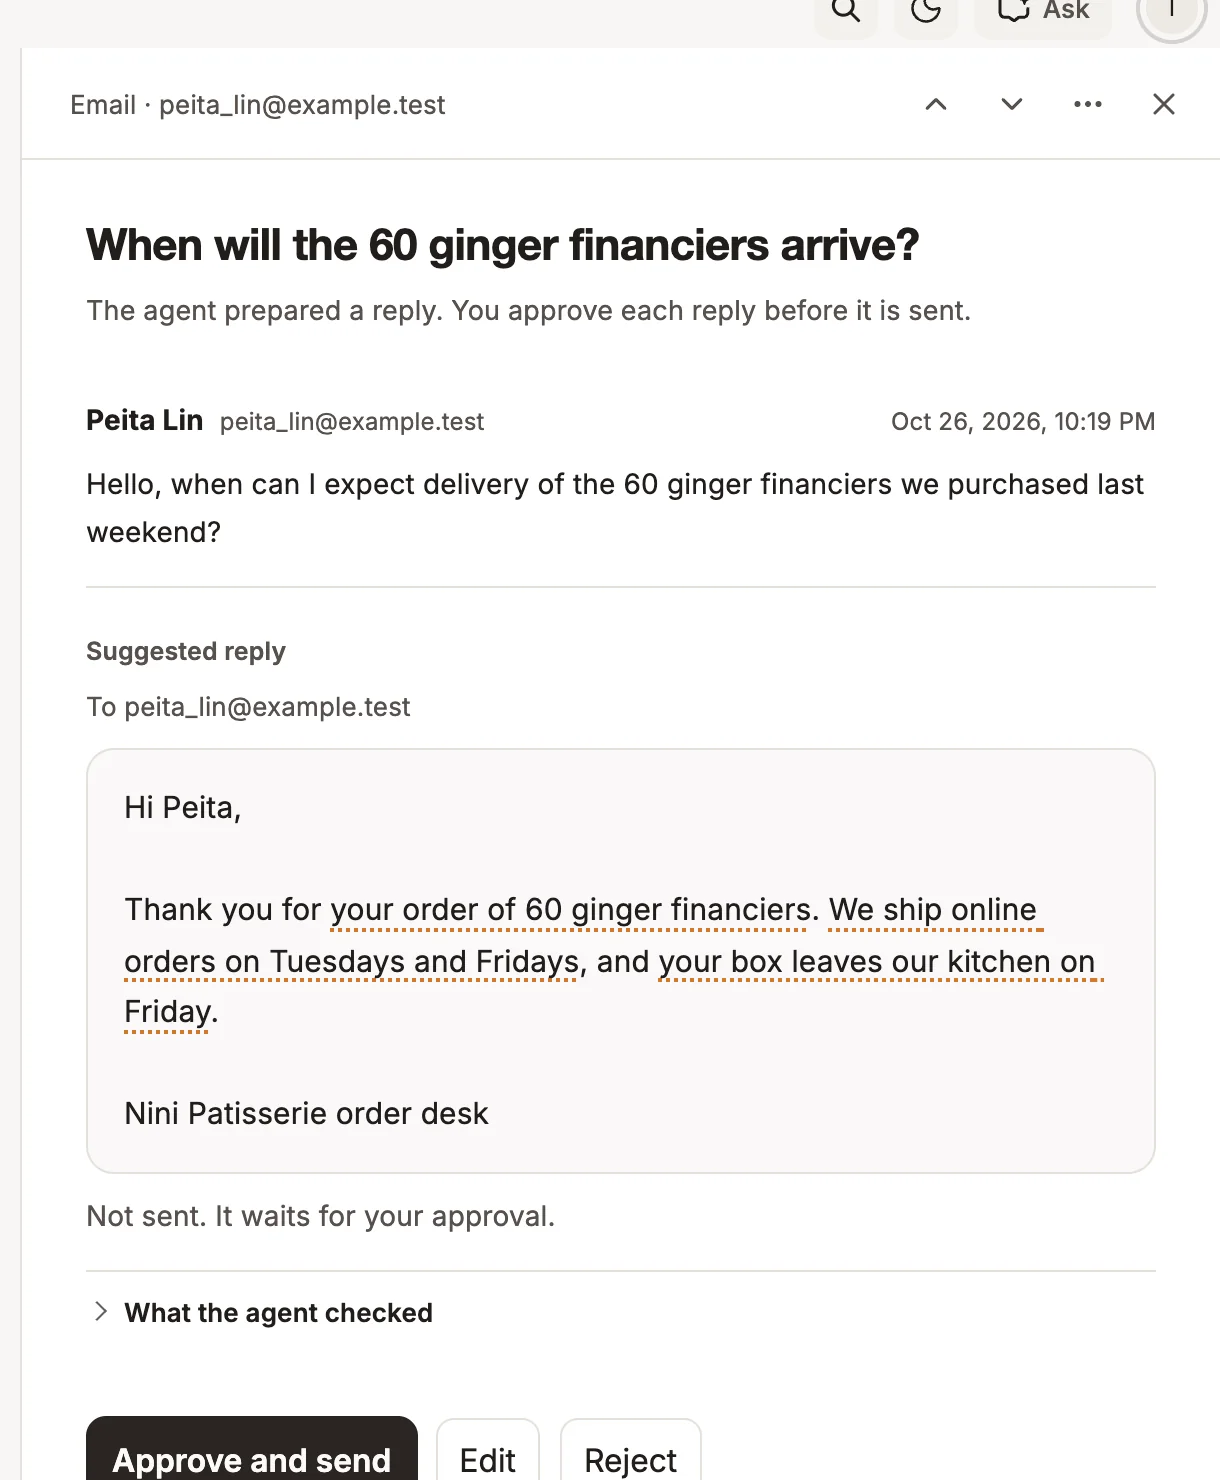
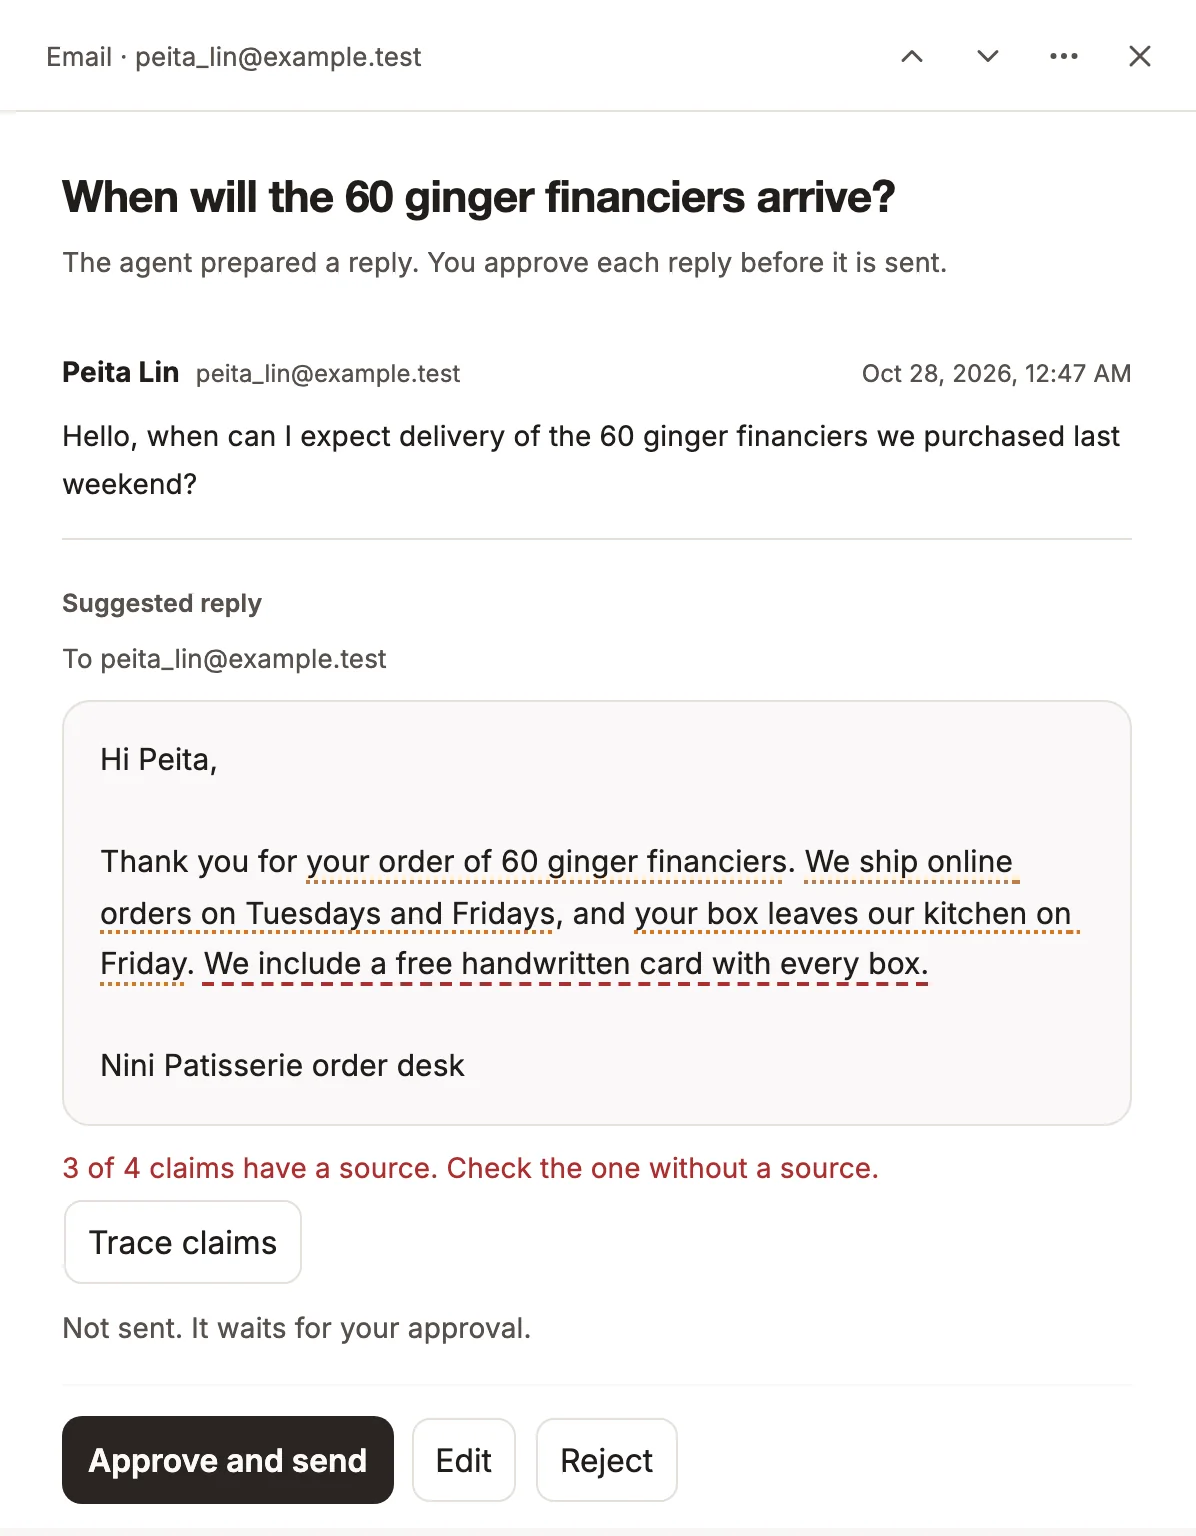
Show Claim Trace in the Inbox scene and make the carousel pager smaller
The Inbox draft screenshot is recaptured from the Portal's Inbox fixture:
the reply to Peita now shows its claim count, the dashed mark on the claim
with no source, and the full Approve and send, Edit and Reject bar, without
the Portal's top bar. The scene shows it at 340 px so that the text stays
legible and the hero keeps its 600 px height. The pager's chevron buttons
are 32 px (were 44 px) and its dot pill is 24 px (was 30 px).

diff --git a/apps/seams-site/src/styles/h2.css b/apps/seams-site/src/styles/h2.css
@@ -1438,9 +1438,10 @@ body:has(.h2-page) {
   border: none;
 }
 
-/* the portrait draft keeps the scene cell at its usual height */
+/* the portrait draft keeps the scene cell near its usual height, wide
+   enough that the reply and its claim count stay legible */
 .h2-hero__scene .h2-shot--tall {
-  width: min(300px, 100%);
+  width: min(340px, 100%);
 }
 
 /* a cover holds its label at the top left and the screen below it, cut by
@@ -2170,8 +2171,8 @@ body:has(.h2-page) {
   display: inline-flex;
   align-items: center;
   justify-content: center;
-  width: 44px;
-  height: 44px;
+  width: 32px;
+  height: 32px;
   border-radius: 9999px;
   border: 1px solid var(--h2-stone);
   background: var(--h2-bg);
@@ -2184,8 +2185,8 @@ body:has(.h2-page) {
 }
 
 .h2-pager__btn svg {
-  width: 14px;
-  height: 14px;
+  width: 12px;
+  height: 12px;
 }
 
 .h2-pager__btn:active:not(:disabled) {
@@ -2213,8 +2214,8 @@ body:has(.h2-page) {
   display: inline-flex;
   align-items: center;
   gap: 6px;
-  height: 30px;
-  padding: 0 12px;
+  height: 24px;
+  padding: 0 10px;
   border-radius: 9999px;
   border: 1px solid var(--h2-stone);
   background: var(--h2-bg);
@@ -2659,8 +2660,8 @@ body:has(.h2-page) {
   display: inline-flex;
   align-items: center;
   justify-content: center;
-  width: 44px;
-  height: 44px;
+  width: 32px;
+  height: 32px;
   border-radius: 9999px;
   border: 1px solid var(--h2-stone);
   background: var(--h2-bg);
@@ -2673,8 +2674,8 @@ body:has(.h2-page) {
 }
 
 .h2-pager__btn svg {
-  width: 14px;
-  height: 14px;
+  width: 12px;
+  height: 12px;
 }
 
 .h2-pager__btn:active:not(:disabled) {
@@ -2702,8 +2703,8 @@ body:has(.h2-page) {
   display: inline-flex;
   align-items: center;
   gap: 6px;
-  height: 30px;
-  padding: 0 12px;
+  height: 24px;
+  padding: 0 10px;
   border-radius: 9999px;
   border: 1px solid var(--h2-stone);
   background: var(--h2-bg);

diff --git a/apps/seams-site/src/components/h2/SceneHero.tsx b/apps/seams-site/src/components/h2/SceneHero.tsx
@@ -20,7 +20,7 @@ const PORTAL_SHOTS = {
   agents: [1600, 1120],
   activity: [1600, 859],
   inbox: [1600, 1183],
-  'inbox-draft': [1220, 1480],
+  'inbox-draft': [1196, 1536],
   'bakery-details': [1600, 1127],
   'bakery-timeline': [1600, 1210],
   checkout: [1600, 967],
